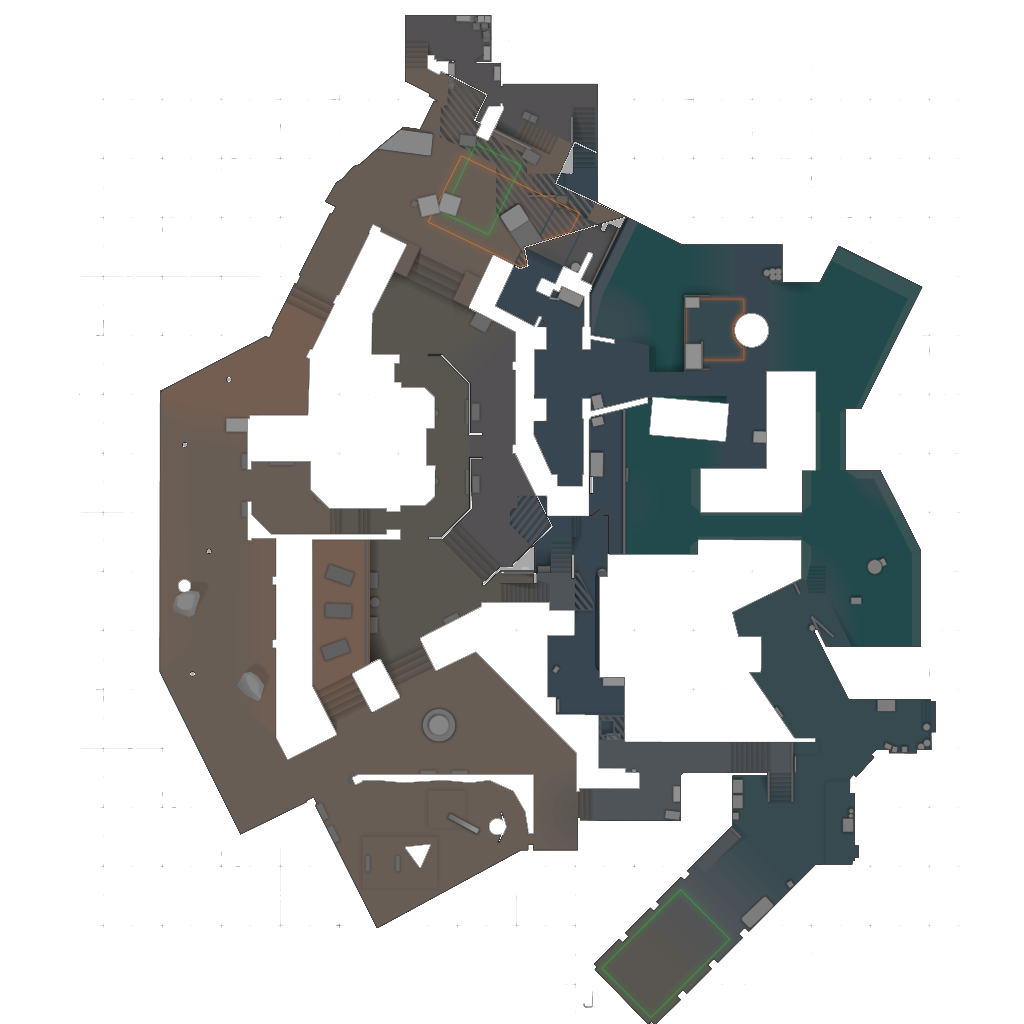
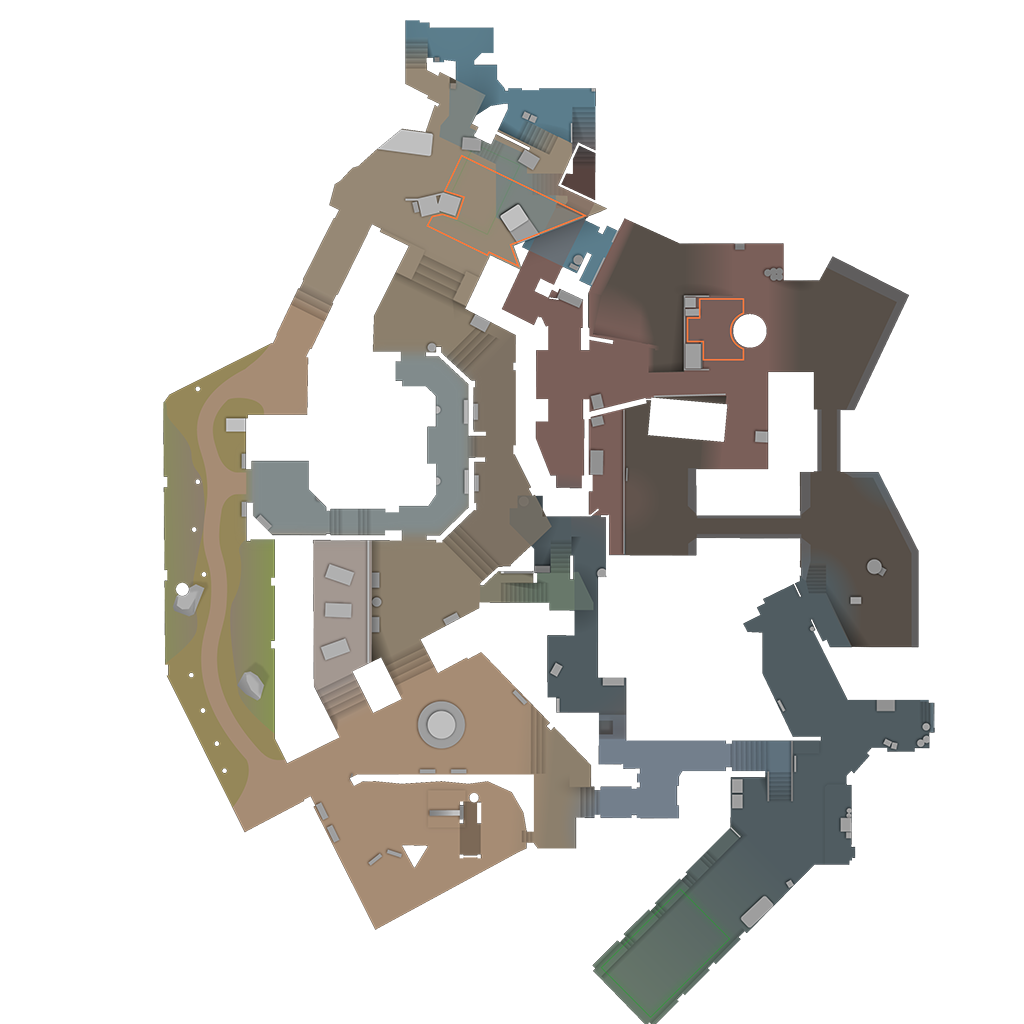
radar: latest depot assets, cache + inferno, multi-level support
Replace every radar with the version extracted from the game depot. The
calibration is byte-identical across all nine, so no position shifts - only the
artwork changed, and de_train loses a black background box that covered the map
surround. Verified by overlaying 533k Anubis and 616k Nuke tick positions: every
one lands inside walkable geometry.

Adds de_inferno (an active-duty map that was missing) and de_cache, which is not
an official CS2 map and so appears in no scrape of the game files. Both are from
MurkyYT/cs2-map-icons, which tracks the depot and ships the .txt calibration
alongside the image.

radar.py changes:

- Parse KeyValues properly instead of flattening with a regex. Nuke, Vertigo and
  Train declare a "verticalsections" block with one sub-block per floor, and
  flattening let the second section's altitudes overwrite the first's - leaving
  no way to tell the floors apart. Adds section_for(z) and is_multi_level.

- Normalise scale by image width against a 1024 reference. Valve's scale is
  per-pixel of a 1024-wide overview and the .txt never states the size it
  assumes, so a 2048 export of the same radar would silently draw the world at
  twice the extent. That source offers both sizes.

diff --git a/playground/python/src/demo_output_processor/radar.py b/playground/python/src/demo_output_processor/radar.py
@@ -17,6 +17,9 @@ from pathlib import Path
 import matplotlib.pyplot as plt
 from PIL import Image
 
+# Width the "scale" value in an overview .txt is calibrated against.
+REFERENCE_WIDTH = 1024
+
 
 class RadarMap:
     """A map's radar image plus the world -> image transform for it."""
@@ -61,6 +64,14 @@ class RadarMap:
 
         self.image = self.images["default"]
         self.width, self.height = self.image.size
+
+        # Valve's scale is per-pixel of a 1024-wide overview, and the .txt never
+        # states the size it assumes. A higher-resolution export of the same
+        # radar keeps the same scale, so taking it literally would stretch the
+        # world extent by the resolution ratio and silently draw every position
+        # at the wrong place. Normalise instead of trusting the file.
+        if self.width != REFERENCE_WIDTH:
+            self.scale *= REFERENCE_WIDTH / self.width
 
     @property
     def is_multi_level(self) -> bool:
